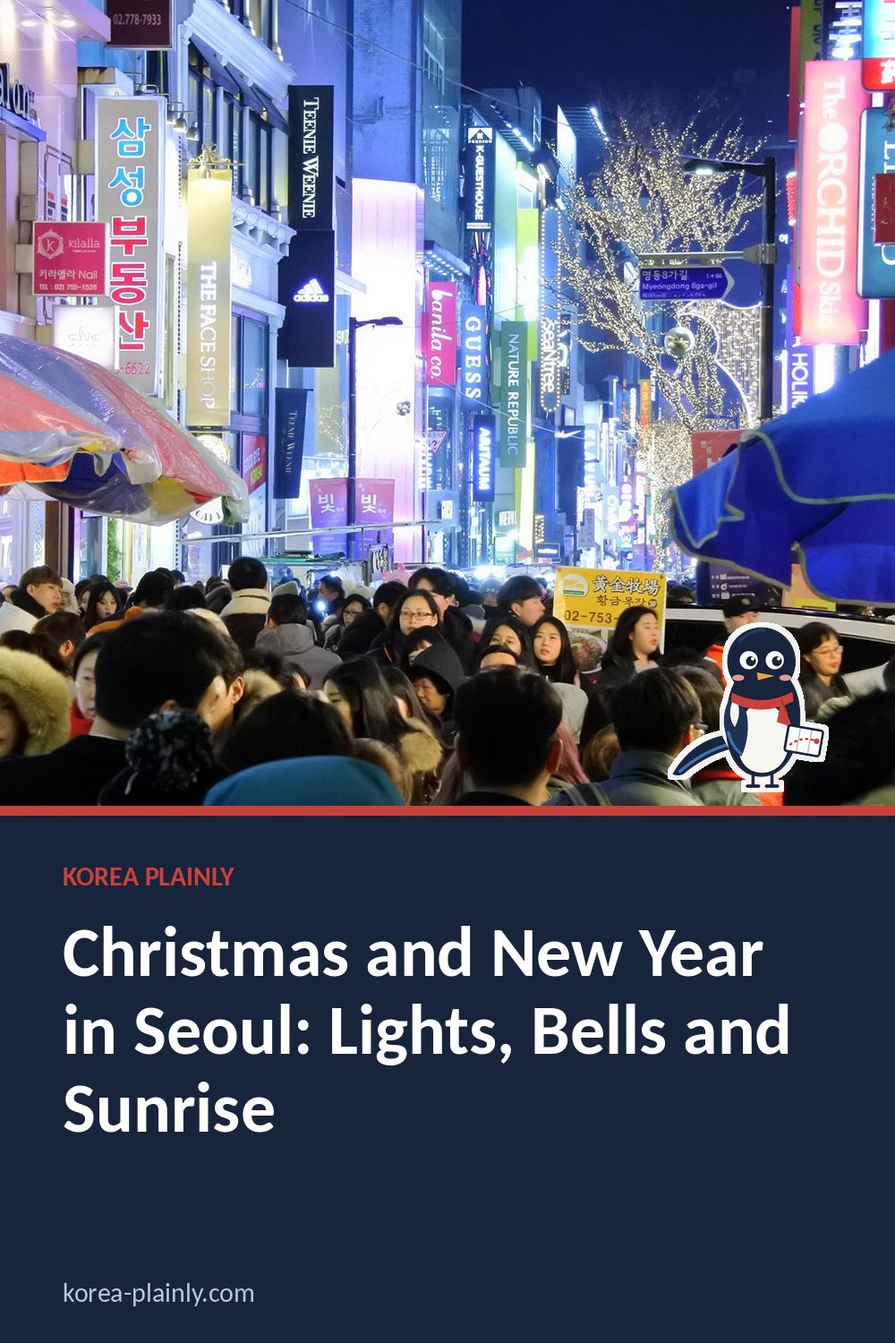
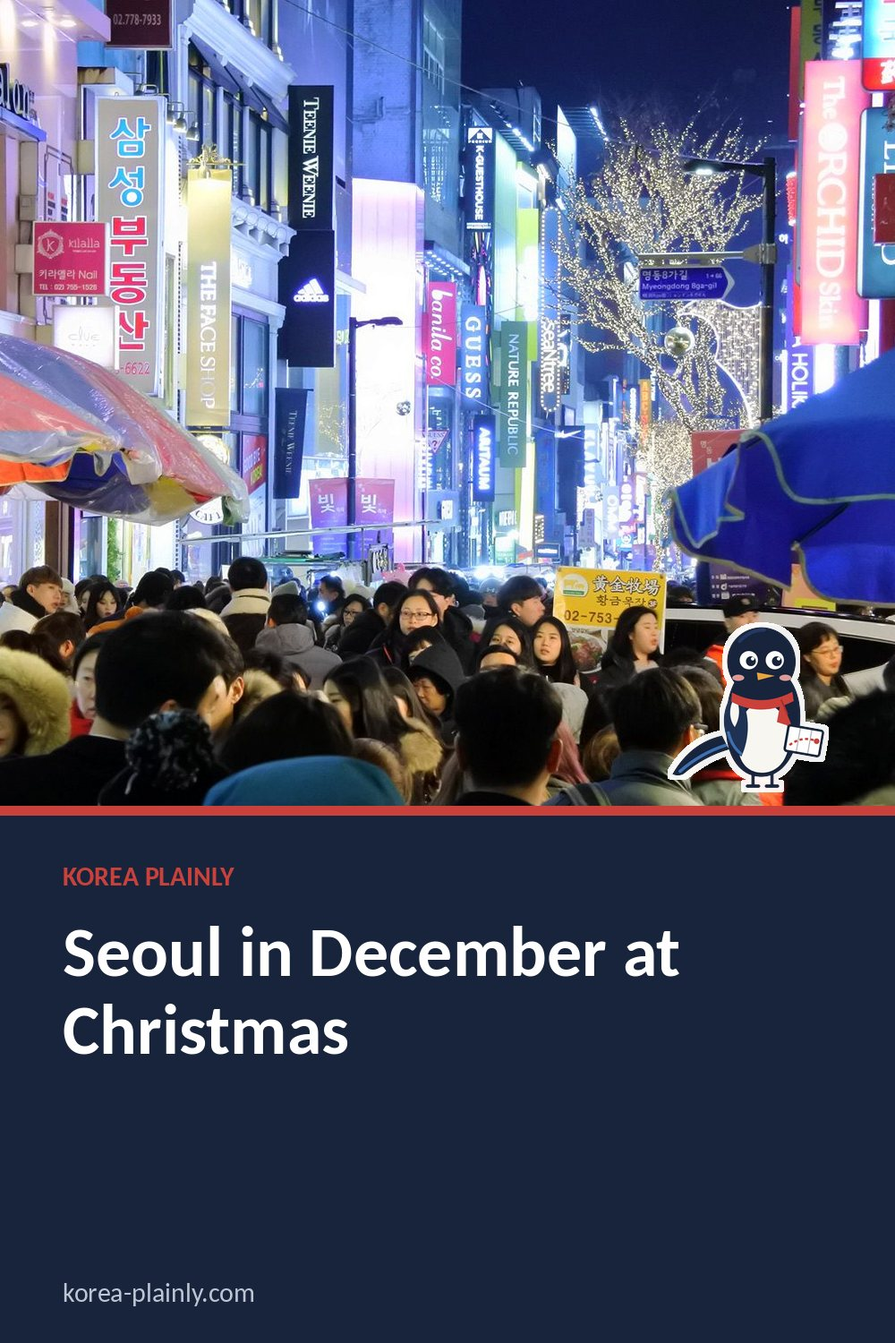
Christmas guide: retitle for 'seoul in december christmas' and rewrite with 2026 long weekend, lights by area, an evening walk and NYE transport; retry Visit Busan Pass cover photo (submarine); queue Seoul shopping districts topic
Claude-Session: https://claude.ai/code/session_01K1fy2ym9eSr9A25R3qZQgA

Changed region(s): [[0.062, 0.6747, 0.899, 0.8587]]

diff --git a/christmas-new-year-seoul.html b/christmas-new-year-seoul.html
@@ -11,11 +11,11 @@
 >
 
 <link rel="stylesheet" href="style.css?v=20261015-1">
-<title>Christmas and New Year in Seoul: Lights, Bells and Sunrise</title>
+<title>Seoul in December at Christmas: Lights, Markets and New Year&#x27;s Eve</title>
 
 <meta
   name="description"
-  content="How Christmas is celebrated in Korea, where to see Seoul&#x27;s Christmas lights, the Bosingak bell on New Year&#x27;s Eve and where to watch the first sunrise."
+  content="Seoul in December at Christmas: where to see the lights and markets, a simple evening walk, Christmas Day in Korea and New Year&#x27;s Eve at Bosingak."
 >
 <link
   rel="canonical"
@@ -29,12 +29,12 @@
 
 <meta
   property="og:title"
-  content="Christmas and New Year in Seoul: Lights, Bells and Sunrise"
+  content="Seoul in December at Christmas: Lights, Markets and New Year&#x27;s Eve"
 >
 
 <meta
   property="og:description"
-  content="How Christmas is celebrated in Korea, where to see Seoul&#x27;s Christmas lights, the Bosingak bell on New Year&#x27;s Eve and where to watch the first sunrise."
+  content="Seoul in December at Christmas: where to see the lights and markets, a simple evening walk, Christmas Day in Korea and New Year&#x27;s Eve at Bosingak."
 >
 
 <meta
@@ -59,12 +59,12 @@
 
 <meta
   name="twitter:title"
-  content="Christmas and New Year in Seoul: Lights, Bells and Sunrise"
+  content="Seoul in December at Christmas: Lights, Markets and New Year&#x27;s Eve"
 >
 
 <meta
   name="twitter:description"
-  content="How Christmas is celebrated in Korea, where to see Seoul&#x27;s Christmas lights, the Bosingak bell on New Year&#x27;s Eve and where to watch the first sunrise."
+  content="Seoul in December at Christmas: where to see the lights and markets, a simple evening walk, Christmas Day in Korea and New Year&#x27;s Eve at Bosingak."
 >
 
 <meta
@@ -247,9 +247,9 @@ footer {
 <link rel="stylesheet" href="article.css?v=3">
 <link rel="stylesheet" href="https://fonts.googleapis.com/css2?family=DM+Sans:wght@400;500;600;700&family=Playfair+Display:ital,wght@0,600;1,600&display=swap">
 <link rel="icon" href="/favicon.svg" type="image/svg+xml">
-<script type="application/ld+json" id="kp-faq-ld">{"@context": "https://schema.org", "@type": "FAQPage", "mainEntity": [{"@type": "Question", "name": "Is Christmas a holiday in Korea?", "acceptedAnswer": {"@type": "Answer", "text": "Yes, 25 December is a public holiday. It is mainly a day for couples and friends to go out, and most shops and attractions stay open."}}, {"@type": "Question", "name": "Where can I see Christmas lights in Seoul?", "acceptedAnswer": {"@type": "Answer", "text": "The department stores near Myeongdong, Cheonggyecheon, Gwanghwamun Square, Jamsil and Namsan are popular spots. Displays change each year."}}, {"@type": "Question", "name": "What happens on New Year's Eve in Seoul?", "acceptedAnswer": {"@type": "Answer", "text": "The Bosingak bell in Jongno is rung 33 times at midnight in front of large crowds. Many people also travel to the east coast to watch the first sunrise."}}]}</script>
-<script type="application/ld+json" id="kp-article-ld">{"@context": "https://schema.org", "@type": "Article", "headline": "Christmas and New Year in Seoul: Lights, Bells and Sunrise", "description": "How Christmas is celebrated in Korea, where to see Seoul's Christmas lights, the Bosingak bell on New Year's Eve and where to watch the first sunrise.", "image": ["https://korea-plainly.com/photo-christmas-new-year-seoul.jpg"], "datePublished": "2026-10-13", "dateModified": "2026-10-17", "author": {"@type": "Person", "name": "Jungsuk Kim", "url": "https://korea-plainly.com/about.html#author"}, "publisher": {"@type": "Organization", "name": "Korea Plainly", "url": "https://korea-plainly.com/"}, "mainEntityOfPage": "https://korea-plainly.com/christmas-new-year-seoul.html"}</script>
-<script type="application/ld+json" id="kp-breadcrumb-ld">{"@context": "https://schema.org", "@type": "BreadcrumbList", "itemListElement": [{"@type": "ListItem", "position": 1, "name": "Home", "item": "https://korea-plainly.com/"}, {"@type": "ListItem", "position": 2, "name": "Guides", "item": "https://korea-plainly.com/guides.html"}, {"@type": "ListItem", "position": 3, "name": "Travel Basics", "item": "https://korea-plainly.com/guides.html?category=travel"}, {"@type": "ListItem", "position": 4, "name": "Christmas and New Year in Seoul: Lights, Bells and Sunrise", "item": "https://korea-plainly.com/christmas-new-year-seoul.html"}]}</script>
+<script type="application/ld+json" id="kp-faq-ld">{"@context": "https://schema.org", "@type": "FAQPage", "mainEntity": [{"@type": "Question", "name": "Is Christmas a holiday in Korea?", "acceptedAnswer": {"@type": "Answer", "text": "Yes, 25 December is a public holiday. It is mainly a day for couples and friends to go out, and most shops, restaurants and attractions stay open."}}, {"@type": "Question", "name": "Is Seoul worth visiting in December for Christmas?", "acceptedAnswer": {"@type": "Answer", "text": "Yes, if you like crisp weather and festive lights and you dress warmly. The light displays, markets and street food make the evenings special, and sightseeing is quieter than in autumn apart from Christmas weekend and New Year's Eve."}}, {"@type": "Question", "name": "What happens on New Year's Eve in Seoul?", "acceptedAnswer": {"@type": "Answer", "text": "The Bosingak bell in Jongno is rung 33 times at midnight in front of large crowds, and public transport usually runs later than normal. Many people also travel to the east coast to watch the first sunrise on 1 January."}}]}</script>
+<script type="application/ld+json" id="kp-article-ld">{"@context": "https://schema.org", "@type": "Article", "headline": "Seoul in December at Christmas: Lights, Markets and New Year's Eve", "description": "Seoul in December at Christmas: where to see the lights and markets, a simple evening walk, Christmas Day in Korea and New Year's Eve at Bosingak.", "image": ["https://korea-plainly.com/photo-christmas-new-year-seoul.jpg"], "datePublished": "2026-10-13", "dateModified": "2026-10-26", "author": {"@type": "Person", "name": "Jungsuk Kim", "url": "https://korea-plainly.com/about.html#author"}, "publisher": {"@type": "Organization", "name": "Korea Plainly", "url": "https://korea-plainly.com/"}, "mainEntityOfPage": "https://korea-plainly.com/christmas-new-year-seoul.html"}</script>
+<script type="application/ld+json" id="kp-breadcrumb-ld">{"@context": "https://schema.org", "@type": "BreadcrumbList", "itemListElement": [{"@type": "ListItem", "position": 1, "name": "Home", "item": "https://korea-plainly.com/"}, {"@type": "ListItem", "position": 2, "name": "Guides", "item": "https://korea-plainly.com/guides.html"}, {"@type": "ListItem", "position": 3, "name": "Travel Basics", "item": "https://korea-plainly.com/guides.html?category=travel"}, {"@type": "ListItem", "position": 4, "name": "Seoul in December at Christmas: Lights, Markets and New Year's Eve", "item": "https://korea-plainly.com/christmas-new-year-seoul.html"}]}</script>
 <meta property="article:published_time" content="2026-10-13">
 </head>
 
@@ -280,12 +280,12 @@ TRAVEL BASICS · SEASONAL
 </div>
 
 <h1>
-Christmas and New Year in Seoul: Lights, Bells and Sunrise
+Seoul in December at Christmas: Lights, Markets and New Year&#x27;s Eve
 </h1>
-<p class="kp-date" data-kp="date">By <a href="about.html#author">Jungsuk Kim</a>, Korea Plainly · Published <time datetime="2026-10-13">13 October 2026</time> · Updated <time datetime="2026-10-17">17 October 2026</time></p>
+<p class="kp-date" data-kp="date">By <a href="about.html#author">Jungsuk Kim</a>, Korea Plainly · Published <time datetime="2026-10-13">13 October 2026</time> · Updated <time datetime="2026-10-26">26 October 2026</time></p>
 
 <p class="dek">
-How Christmas is celebrated in Korea, where to see Seoul&#x27;s Christmas lights, the Bosingak bell on New Year&#x27;s Eve and where to watch the first sunrise.
+Seoul in December at Christmas: where to see the lights and markets, a simple evening walk, Christmas Day in Korea and New Year&#x27;s Eve at Bosingak.
 </p>
 
 <img
@@ -297,50 +297,70 @@ How Christmas is celebrated in Korea, where to see Seoul&#x27;s Christmas lights
 
 <article>
 
-<p>Seoul is at its most sparkling from late November to early January (for the weather and everything else on that month, see our <a href="korea-in-december.html">Korea in December guide</a>). Department stores turn their facades into giant light shows, streets fill with Christmas decorations, and New Year's Eve ends with the ringing of a historic bell. Christmas is celebrated a little differently in Korea, so here is what to expect and where to go.</p>
+<p>Seoul in December is cold, bright and festive. From late November the department stores light up their facades, Christmas markets open in the squares, and the month ends with a midnight bell in the old city centre. Christmas works a little differently in Korea, so this guide explains what to expect, where to see the lights, a simple evening route, and how to handle New Year's Eve. For the weather and everything else that month, see our <a href="korea-in-december.html">Korea in December guide</a>.</p>
 
-<nav class="kp-toc" data-kp="toc" aria-label="On this page"><p>On this page</p><ol><li><a href="#christmas-in-korea-what-is-different">Christmas in Korea: what is different</a></li><li><a href="#where-to-see-christmas-lights-in-seoul">Where to see Christmas lights in Seoul</a></li><li><a href="#new-year-s-eve-in-seoul">New Year&#x27;s Eve in Seoul</a></li><li><a href="#new-year-s-day-sunrise">New Year&#x27;s Day sunrise</a></li><li><a href="#tips-for-december-in-seoul">Tips for December in Seoul</a></li><li><a href="#faq">FAQ</a></li></ol></nav>
+<nav class="kp-toc" data-kp="toc" aria-label="On this page"><p>On this page</p><ol><li><a href="#christmas-in-korea-what-is-different">Christmas in Korea: what is different</a></li><li><a href="#where-to-see-christmas-lights-in-seoul">Where to see Christmas lights in Seoul</a></li><li><a href="#a-simple-christmas-lights-walk">A simple Christmas lights walk</a></li><li><a href="#new-year-s-eve-in-seoul">New Year&#x27;s Eve in Seoul</a></li><li><a href="#new-year-s-day-sunrise">New Year&#x27;s Day sunrise</a></li><li><a href="#tips-for-december-in-seoul">Tips for December in Seoul</a></li><li><a href="#faq">FAQ</a></li></ol></nav>
 <h2 id="christmas-in-korea-what-is-different">Christmas in Korea: what is different</h2>
-<p>Christmas Day (25 December) is a public holiday in Korea, and Christmas is celebrated widely, but more like Valentine's Day than a family holiday. Couples and friends go out for dinner, see the lights and buy a Christmas cake from a bakery. Restaurants and cafes are busy on Christmas Eve and Christmas Day, so book popular places in advance. Shops, malls and most attractions stay open.</p>
+<p>Christmas Day (25 December) is a public holiday in Korea, but it feels more like Valentine's Day than a family holiday. Couples and groups of friends go out for dinner, walk around the lights and share a Christmas cake from a bakery. Families gather for Seollal and Chuseok instead, so you will not find the city shut down.</p>
+<ul>
+<li><strong>Shops and sights stay open.</strong> Malls, department stores, palaces, museums and most restaurants open as usual on 25 December, though some palaces close one weekday each week, so check before you go.</li>
+<li><strong>Christmas Eve is the big night out.</strong> Restaurants with a view, popular cafés and anywhere near the lights fill up from late afternoon.</li>
+<li><strong>Cakes are a thing.</strong> Bakery chains and hotel bakeries sell decorated Christmas cakes, and the popular ones are often pre-ordered. Walk into any bakery on the 24th and you will see the queue.</li>
+<li><strong>In 2026, Christmas falls on a Friday</strong>, so 25 to 27 December is a long weekend for locals. Expect busier trains out of Seoul and fuller restaurants all weekend. New Year's Day 2027 is also a Friday.</li>
+</ul>
 
 <h2 id="where-to-see-christmas-lights-in-seoul">Where to see Christmas lights in Seoul</h2>
 <ul>
-<li><strong>Myeongdong department stores.</strong> The flagship department stores near Myeongdong cover their buildings in huge light displays and video screens each year, and they have become one of Seoul's most photographed winter sights. Go after dark and expect crowds. See our <a href="seoul-shopping-myeongdong-shopping-street.html">Myeongdong guide</a>.</li>
-<li><strong>Cheonggyecheon.</strong> The stream through central Seoul is usually decorated with lights and lanterns in late autumn and winter. See our <a href="seoul-travel-cheonggyecheon.html">Cheonggyecheon guide</a>.</li>
-<li><strong>Gwanghwamun Square.</strong> The square in front of Gyeongbokgung has hosted a Christmas market and light displays in recent winters.</li>
-<li><strong>Theme parks and towers.</strong> Lotte World and the area around Lotte World Tower in Jamsil, and N Seoul Tower on Namsan, are popular evening spots in December. Not sure which theme park to pick? See <a href="lotte-world-vs-everland.html">Lotte World or Everland</a>.</li>
+<li><strong>Myeongdong department stores.</strong> The Shinsegae main store and Lotte Department Store's main branch near Myeongdong turn their outside walls into huge light shows and video screens each winter. They have become one of Seoul's most photographed winter sights, and the pavement opposite gets crowded from about 6pm. See our <a href="myeongdong-night-market.html">Myeongdong street food guide</a> for what to eat nearby.</li>
+<li><strong>Gwanghwamun Square.</strong> In recent winters the city has run a Christmas market and light displays here as part of its winter festival, usually from mid-December into early January.</li>
+<li><strong>Cheonggyecheon.</strong> The stream through central Seoul is usually lined with lights and lanterns in winter, and it is a pleasant, traffic-free walk. See our <a href="seoul-travel-cheonggyecheon.html">Cheonggyecheon guide</a>.</li>
+<li><strong>Jamsil.</strong> The plaza by Lotte World Mall and Lotte World Tower has hosted a European-style Christmas market with a tall tree in recent years. Combine it with an evening at the theme park; see <a href="lotte-world-vs-everland.html">Lotte World or Everland</a>.</li>
+<li><strong>The Hyundai Seoul in Yeouido.</strong> This mall has built an indoor Christmas village in recent winters. It is warm and very popular, and in some years entry has needed a timed booking through the store's app, so check ahead.</li>
+<li><strong>N Seoul Tower.</strong> Namsan is a good place to see the whole lit-up city on a clear, cold night.</li>
 </ul>
-<p>Exact displays and dates change each year and are usually announced in November, so check the Seoul city tourism website and local news before you go.</p>
+<p>Exact displays, markets and dates change every year and are usually announced in November. Check the Seoul city tourism website, and search the place's Korean name in Naver Map or KakaoMap for current details.</p>
+
+<h2 id="a-simple-christmas-lights-walk">A simple Christmas lights walk</h2>
+<p>You can see the best of central Seoul's lights in one evening on foot, in about two hours with stops:</p>
+<ol>
+<li>Start at <strong>Myeongdong Station</strong> (Line 4) around dusk and eat your way through the street food stalls.</li>
+<li>Walk to the department store facades near <strong>Euljiro 1-ga Station</strong> (Line 2) and Hoehyeon for the light shows.</li>
+<li>Head north a few minutes to <strong>Cheonggyecheon</strong> and follow the stream west.</li>
+<li>Finish at <strong>Gwanghwamun Square</strong> (Gwanghwamun Station, Line 5) for the market and the view of the palace gate.</li>
+</ol>
+<p>The whole route is roughly two kilometres. Pavements can be icy, so wear shoes with grip, and stop for a hot drink or <a href="korean-street-food-guide.html">street food</a> like hotteok (sweet filled pancakes) and fish-cake skewers in broth to warm up.</p>
 
 <h2 id="new-year-s-eve-in-seoul">New Year's Eve in Seoul</h2>
-<p>The biggest New Year's Eve event is the <strong>Bosingak bell ringing</strong> in Jongno, central Seoul. At midnight the historic bell is struck 33 times, and tens of thousands of people gather in the surrounding streets. If you go:</p>
+<p>The biggest New Year's Eve event is the <strong>Bosingak bell ringing</strong> in Jongno, central Seoul. At midnight the historic bell is struck 33 times, and tens of thousands of people gather in the streets around it. If you go:</p>
 <ul>
-<li>Arrive early and dress very warmly; you will be standing outside for a long time.</li>
-<li>Expect road closures and crowds. Some subway stations nearby may be busy or skipped, and extra late trains are often added on New Year's Eve; check the details for the year.</li>
-<li>For a calmer evening, book a restaurant with a view, or watch the countdown on TV from a cosy bar.</li>
+<li>Arrive well before 11pm and dress very warmly; you will be standing outside for a long time, often below freezing.</li>
+<li>Expect road closures. Jonggak Station (Line 1), right next to the bell, may be crowded or have trains passing through without stopping around midnight. Gwanghwamun or Jongno 3-ga can be easier.</li>
+<li>Subway and bus services are usually extended past midnight on New Year's Eve; the details are announced each year.</li>
+<li>For a calmer night, book a restaurant with a view or watch the countdown on TV from a cosy bar.</li>
 </ul>
 <p>31 December is a normal working day in Korea; 1 January is a public holiday.</p>
 
 <h2 id="new-year-s-day-sunrise">New Year's Day sunrise</h2>
-<p>Watching the first sunrise of the year is a popular tradition. People travel overnight to east coast beaches such as Jeongdongjin near Gangneung and Homigot in Pohang, or to Seongsan Ilchulbong on Jeju. In Seoul, hills such as Namsan and Achasan are popular. Trains and roads to the east coast are packed, so book early. Our <a href="korea-new-year-sunrise.html">New Year sunrise guide</a> has times and spots.</p>
+<p>Watching the first sunrise of the year is a popular tradition. People travel overnight to east coast beaches such as Jeongdongjin near Gangneung and Homigot in Pohang, or to Seongsan Ilchulbong on Jeju. In Seoul, hills such as Namsan and Achasan are popular and need only an early start. Trains and roads to the east coast are packed, so book early. Our <a href="korea-new-year-sunrise.html">New Year sunrise guide</a> has times and spots.</p>
 <p>The bigger family holiday comes later: Seollal, the Lunar New Year, which falls on 7 February in 2027. See our <a href="seollal-travel-tips.html">Seollal guide</a>.</p>
 
 <h2 id="tips-for-december-in-seoul">Tips for December in Seoul</h2>
 <ul>
-<li>Book hotels, restaurants and any special dinners early for 24, 25 and 31 December.</li>
-<li>It is cold, especially at night. See our <a href="korea-winter-travel-guide.html">winter travel guide</a> for what to wear.</li>
-<li>Department stores and malls have winter sales and pop-up markets, which make good warm places to browse.</li>
-<li>Combine the lights with hot street food and a warm drink from a cafe.</li>
+<li><strong>Book early</strong> for hotels and dinners on 24, 25 and 31 December. Many restaurants offer set Christmas menus that need a reservation.</li>
+<li><strong>Dress for the cold.</strong> Daytime temperatures are often just above freezing and nights below it, with dry wind. A padded coat, hat, gloves and heat packs from a convenience store make evening light-watching far more pleasant. Our <a href="korea-winter-travel-guide.html">winter travel guide</a> covers what to wear.</li>
+<li><strong>Go on a weekday</strong> if you can. The Myeongdong facades and markets are much calmer from Monday to Thursday than on Christmas weekend.</li>
+<li><strong>Use the subway.</strong> Taxis are hard to find in the evening crowds and roads around the lights get jammed.</li>
+<li><strong>Warm up indoors.</strong> Department stores and underground shopping arcades have winter sales and pop-up markets, and they are a good break from the cold.</li>
 </ul>
 
 <section class="faq">
 <h2 id="faq">FAQ</h2>
 <h3>Is Christmas a holiday in Korea?</h3>
-<p>Yes, 25 December is a public holiday. It is mainly a day for couples and friends to go out, and most shops and attractions stay open.</p>
-<h3>Where can I see Christmas lights in Seoul?</h3>
-<p>The department stores near Myeongdong, Cheonggyecheon, Gwanghwamun Square, Jamsil and Namsan are popular spots. Displays change each year.</p>
+<p>Yes, 25 December is a public holiday. It is mainly a day for couples and friends to go out, and most shops, restaurants and attractions stay open.</p>
+<h3>Is Seoul worth visiting in December for Christmas?</h3>
+<p>Yes, if you like crisp weather and festive lights and you dress warmly. The light displays, markets and street food make the evenings special, and sightseeing is quieter than in autumn apart from Christmas weekend and New Year's Eve.</p>
 <h3>What happens on New Year's Eve in Seoul?</h3>
-<p>The Bosingak bell in Jongno is rung 33 times at midnight in front of large crowds. Many people also travel to the east coast to watch the first sunrise.</p>
+<p>The Bosingak bell in Jongno is rung 33 times at midnight in front of large crowds, and public transport usually runs later than normal. Many people also travel to the east coast to watch the first sunrise on 1 January.</p>
 </section>
 
 <a class="back" href="guides.html">← Back to all guides</a>

diff --git a/visit-busan-pass.html b/visit-busan-pass.html
@@ -245,12 +245,12 @@ footer {
 <script async src="https://pagead2.googlesyndication.com/pagead/js/adsbygoogle.js?client=ca-pub-7379462117232471" crossorigin="anonymous"></script>
 <style>.kp-date{font-size:13px;color:#62635f;margin:-6px 0 22px}</style>
 <script type="application/ld+json" id="kp-faq-ld">{"@context": "https://schema.org", "@type": "FAQPage", "mainEntity": [{"@type": "Question", "name": "Is the Visit Busan Pass worth it if I’m only staying in Busan for a short time?", "acceptedAnswer": {"@type": "Answer", "text": "It can be worthwhile if you plan to visit several included attractions during the pass’s validity period. Before buying, list the places you genuinely want to see, check which are covered, and compare their regular admission costs with the pass. Leave enough time for travel between attractions; a packed itinerary may not suit every visitor."}}, {"@type": "Question", "name": "Does the Visit Busan Pass include public transportation?", "acceptedAnswer": {"@type": "Answer", "text": "Don’t assume that all transportation is included. What the pass covers can depend on the pass type and its current terms. Check the official inclusions before you buy, and plan separately for getting around Busan if needed. A transit card or individual fares may be useful for parts of your trip that aren’t covered."}}, {"@type": "Question", "name": "Do I need to book attractions before using the Visit Busan Pass?", "acceptedAnswer": {"@type": "Answer", "text": "Requirements can differ from one attraction to another and may change. Before your visit, check each place’s current entry rules, including whether advance reservations are needed and how to show or activate your pass. This is especially helpful if you have a tight schedule or are visiting during a busy travel period."}}]}</script>
-<script type="application/ld+json" id="kp-article-ld">{"@context": "https://schema.org", "@type": "Article", "headline": "Visit Busan Pass: Is It Worth It for First-Time Visitors?", "description": "Find out how the Visit Busan Pass works, which Busan attractions can make it worthwhile, and how to plan your days around its time limit.", "image": ["https://korea-plainly.com/photo-visit-busan-pass.jpg"], "datePublished": "2026-10-26", "dateModified": "2026-10-26", "author": {"@type": "Person", "name": "Jungsuk Kim", "url": "https://korea-plainly.com/about.html#author"}, "publisher": {"@type": "Organization", "name": "Korea Plainly", "url": "https://korea-plainly.com/"}, "mainEntityOfPage": "https://korea-plainly.com/visit-busan-pass.html"}</script>
-<script type="application/ld+json" id="kp-breadcrumb-ld">{"@context": "https://schema.org", "@type": "BreadcrumbList", "itemListElement": [{"@type": "ListItem", "position": 1, "name": "Home", "item": "https://korea-plainly.com/"}, {"@type": "ListItem", "position": 2, "name": "Guides", "item": "https://korea-plainly.com/guides.html"}, {"@type": "ListItem", "position": 3, "name": "Money", "item": "https://korea-plainly.com/guides.html?category=money"}, {"@type": "ListItem", "position": 4, "name": "Visit Busan Pass: Is It Worth It for First-Time Visitors?", "item": "https://korea-plainly.com/visit-busan-pass.html"}]}</script>
-<meta property="article:published_time" content="2026-10-26">
 <link rel="stylesheet" href="article.css?v=3">
 <link rel="stylesheet" href="https://fonts.googleapis.com/css2?family=DM+Sans:wght@400;500;600;700&family=Playfair+Display:ital,wght@0,600;1,600&display=swap">
 <link rel="icon" href="/favicon.svg" type="image/svg+xml">
+<script type="application/ld+json" id="kp-article-ld">{"@context": "https://schema.org", "@type": "Article", "headline": "Visit Busan Pass: Is It Worth It for First-Time Visitors?", "description": "Find out how the Visit Busan Pass works, which Busan attractions can make it worthwhile, and how to plan your days around its time limit.", "image": ["https://korea-plainly.com/photo-visit-busan-pass.jpg"], "datePublished": "2026-10-26", "dateModified": "2026-10-26", "author": {"@type": "Person", "name": "Jungsuk Kim", "url": "https://korea-plainly.com/about.html#author"}, "publisher": {"@type": "Organization", "name": "Korea Plainly", "url": "https://korea-plainly.com/"}, "mainEntityOfPage": "https://korea-plainly.com/visit-busan-pass.html"}</script>
+<script type="application/ld+json" id="kp-breadcrumb-ld">{"@context": "https://schema.org", "@type": "BreadcrumbList", "itemListElement": [{"@type": "ListItem", "position": 1, "name": "Home", "item": "https://korea-plainly.com/"}, {"@type": "ListItem", "position": 2, "name": "Guides", "item": "https://korea-plainly.com/guides.html"}, {"@type": "ListItem", "position": 3, "name": "Money", "item": "https://korea-plainly.com/guides.html?category=money"}, {"@type": "ListItem", "position": 4, "name": "Visit Busan Pass: Is It Worth It for First-Time Visitors?", "item": "https://korea-plainly.com/visit-busan-pass.html"}]}</script>
+<meta property="article:published_time" content="2026-10-26">
 </head>
 
 <body class="kp-article">

diff --git a/guides.html b/guides.html
@@ -900,11 +900,11 @@ TRAVEL BASICS · NEW
 </small>
 
 <h2>
-Christmas and New Year in Seoul: Lights, Bells and Sunrise
+Seoul in December at Christmas: Lights, Markets and New Year&#x27;s Eve
 </h2>
 
 <p>
-How Christmas is celebrated in Korea, where to see Seoul&#x27;s Christmas lights, the Bosingak bell on New Year&#x27;s Eve and where to watch the first sunrise.
+Seoul in December at Christmas: where to see the lights and markets, a simple evening walk, Christmas Day in Korea and New Year&#x27;s Eve at Bosingak.
 </p>
 
 <span class="guide-arrow">
